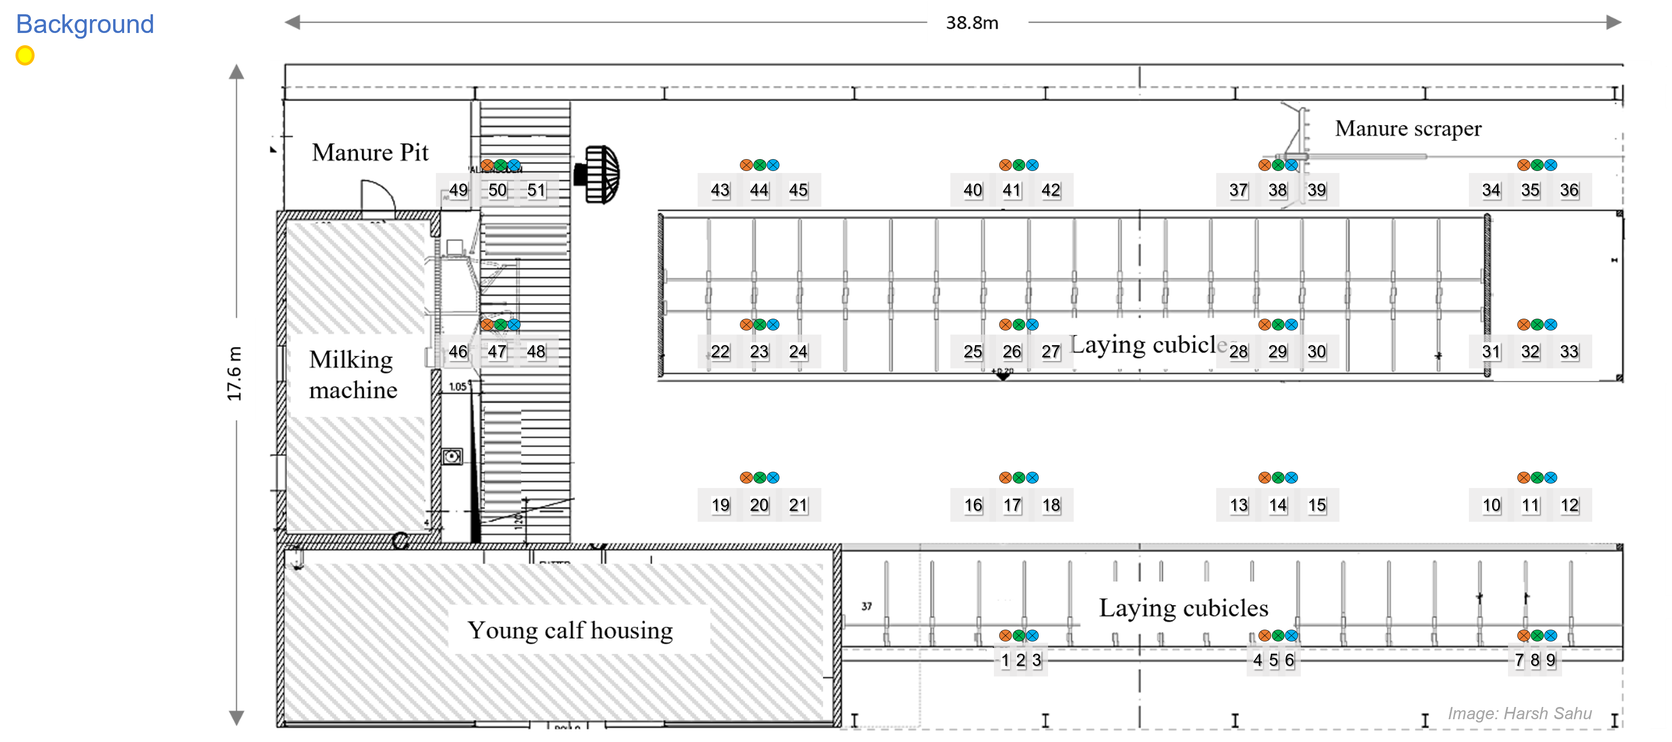
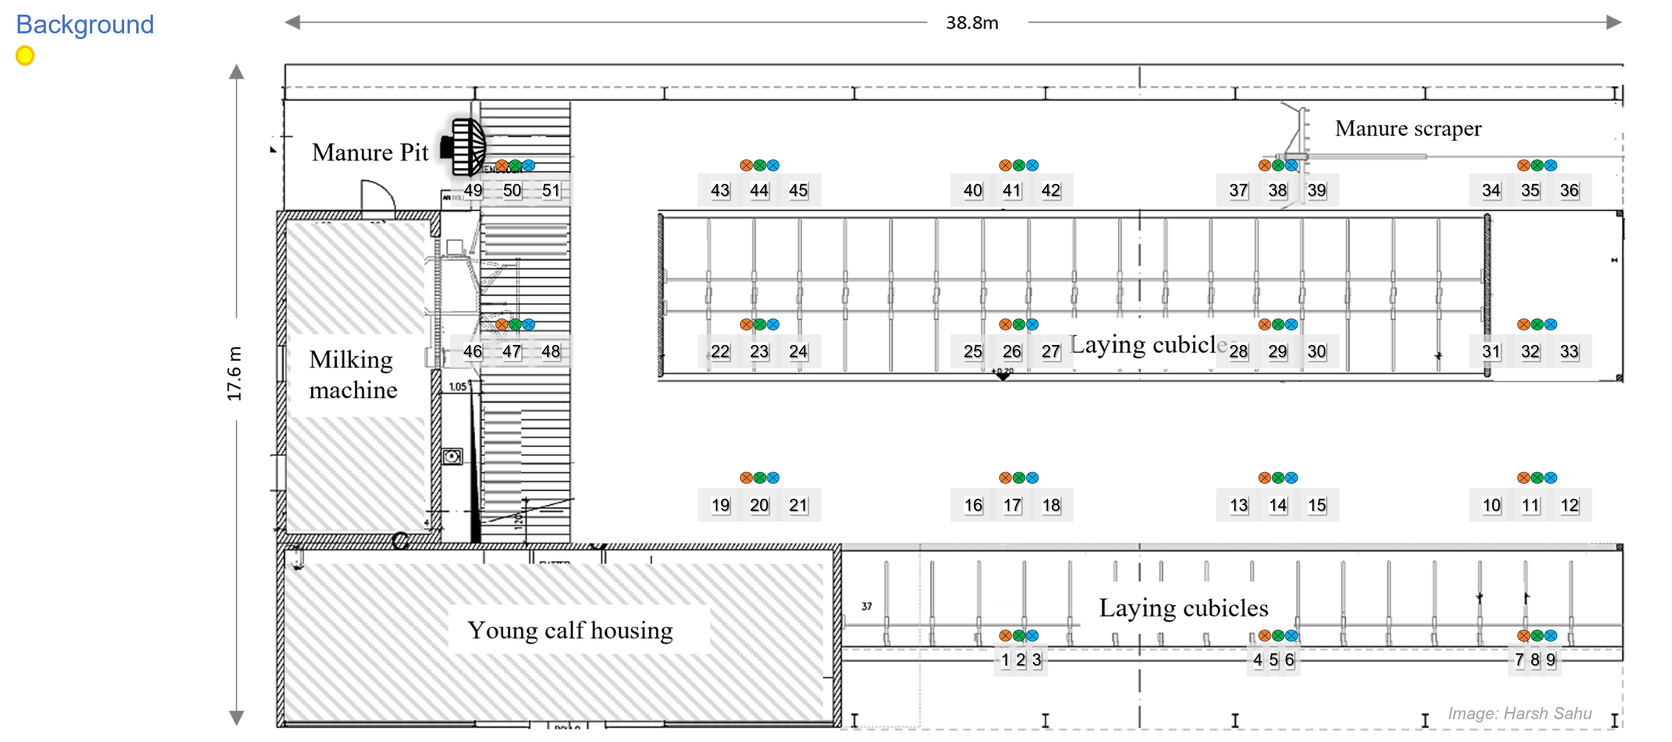
intro20260819

diff --git a/workflows/mapping_high_resolution/Manuscript_3_Mapping_high_resolution_concentration_Latex_draft/LaTex_drafts/20260813_Manuscript3_draft.tex b/workflows/mapping_high_resolution/Manuscript_3_Mapping_high_resolution_concentration_Latex_draft/LaTex_drafts/20260813_Manuscript3_draft.tex
@@ -53,39 +53,27 @@ SP & sampling point\\
 
 \section{Introduction}
 
-Reliable barn-scale measurements of methane (\(\mathrm{CH_4}\)) and ammonia (\(\mathrm{NH_3}\)) require representative concentrations and ventilation rates. This remains difficult in naturally ventilated dairy barns because wind, buoyancy, building geometry, animals and manure surfaces create airflow and concentration fields without permanently defined inlets and outlets. Foundational evaluations of available measurement methods identified spatial sampling as a major source of uncertainty \citep{Calvet2013,Ogink2013,Saha2013}. A recent systematic review confirmed that horizontal position, sampling height, point density and measurement duration remain unresolved and that no internationally accepted reference method is available for these buildings \citep{Apostolico2026}.
+Reliable field-scale quantification of methane (\(\mathrm{CH_4}\)) and ammonia (\(\mathrm{NH_3}\)) emissions from livestock buildings requires representative gas concentrations and ventilation rates. Direct emission measurements are most readily applied in mechanically ventilated buildings (MVBs), including pig and beef-cattle housing, where fan-assisted exhausts provide defined outlets. Under suitable conditions, uncertainties of approximately 6--7\% have been reported because outlet concentrations and ventilation rates can be measured at controlled exhaust sections \citep{Calvet2013}. This approach is more difficult and costly in large, open-sided naturally ventilated dairy barns (NVDBs), where wind, buoyancy, building geometry, animals and manure surfaces produce heterogeneous airflow and concentration fields without permanently defined inlets and outlets \citep{Ogink2013,Saha2013}. Consequently, spatio-temporal sampling resolution, particularly its vertical component, can introduce systematic error. For direct methods, representative vertical sampling is required for both gas concentrations, as demonstrated by \citet{Sahu2023}, and airflow velocity, as addressed by \citet{Coorevits2025Direct}. Indirect \(\mathrm{CO_2}\)-balance methods instead infer the ventilation rate from animal \(\mathrm{CO_2}\) production and the indoor--background concentration difference. Representative internal and background sampling is therefore essential for both the tracer and target gases.
 
-The VERA protocol addresses this uncertainty by recommending internal sampling at least \SI{3}{m} above the floor, at least \SI{2}{m} from openings and at approximately one sampling point per \SI{10}{m} of barn length. For dairy cattle, at least six independent \SI{24}{h} measurement periods should be distributed across one year. These provisions standardise measurement practice but do not quantify the precision of a particular configuration, and the protocol acknowledges that the required number of sampling points has not been established experimentally \citep{VERA2018}. Empirical comparisons show why that limitation matters. Alternative inside--outside sampling strategies produced differences of 63--94\% in calculated ventilation and 11--26\% in \(\mathrm{NH_3}\) emission during long-term monitoring \citep{JankeSampling2020}. Verification against opening-based airflow measurements subsequently showed that the performance of two \(\mathrm{CO_2}\)-balance strategies depended on wind direction and on whether the selected internal lines represented the prevailing exhaust pathway \citep{Janke2022}. In a recent one-year study at each of four dairy barns, daily ventilation calculated using a VERA-type method differed from a direct opening-flow method by an average of \(-9\%\), with differences from \(-33\) to \(34\%\) \citep{Declerck2025}. The relationship was barn- and flow-dependent, demonstrating that sampling configuration is embedded within a broader method-specific uncertainty.
+The 2018 VERA test protocol provides recommendations for quantifying livestock emissions by direct and indirect methods and aims to standardise the derivation of annual emission factors and the evaluation of mitigation measures \citep{VERA2018}. However, it does not quantify the uncertainty attributable to a particular spatial sampling configuration and acknowledges that the required number of sampling points has not been established experimentally. Several studies in European livestock buildings have addressed this evidence gap. In a German NVDB, alternative inside--outside sampling strategies produced differences of 63--94\% in indirectly calculated ventilation rates and 11--26\% in \(\mathrm{NH_3}\) emissions during long-term monitoring \citep{JankeSampling2020}. Subsequent verification against opening-based airflow measurements showed that the performance of two \(\mathrm{CO_2}\)-balance strategies depended on wind direction and on whether the selected internal sampling lines represented the prevailing exhaust pathway \citep{Janke2022}. In a recent study that monitored four Belgian NVDBs for one year each, ventilation rates calculated using a VERA-type method differed from those obtained using a direct opening-flow method by an average of \(-9\%\), with individual differences ranging from \(-33\) to \(34\%\) \citep{Declerck2025}. This barn- and flow-dependent relationship demonstrates that sampling configuration forms part of a broader method-specific uncertainty.
 
-Field measurements have nevertheless established that the underlying concentrations are spatially structured. Non-uniform distributions of \(\mathrm{NH_3}\), \(\mathrm{CO_2}\) and tracer-gas mixing ratios were reported by \citet{Mendes2015}. Substantial temporal and spatial variability of \(\mathrm{CH_4}\) occurred around lying cubicles \citep{Wu2016}. Horizontal and vertical concentration differences were also observed in open dairy barns and at barn openings \citep{Durso2022,Durso2024,Sahu2023}. These studies resolved selected transects, profiles or source zones. They did not establish whether the same spatial contrasts persist when normal barn operation and changing meteorological conditions are observed over longer periods.
+Over the past two decades, full-scale field measurements, computational fluid dynamics (CFD) and atmospheric-boundary-layer wind-tunnel experiments have identified factors governing spatial variability in NVDBs. Field studies have linked non-uniform airflow and concentration fields to external wind conditions and to disturbances in the approaching flow caused by nearby buildings and other obstacles \citep{Fiedler2014,Schmithausen2018,Koenig2018}. Non-uniform distributions of \(\mathrm{NH_3}\), \(\mathrm{CO_2}\) and tracer-gas mixing ratios were reported by \citet{Mendes2015}. Substantial temporal and spatial variability in \(\mathrm{CH_4}\) concentrations was observed around lying cubicles \citep{Wu2016}. Horizontal and vertical concentration differences were also found within open dairy barns and at barn openings \citep{Durso2022,Durso2024,Sahu2023}. Although these studies established the presence of local heterogeneity, they did not determine whether the same spatial contrasts persist under regular day-to-day barn operations and changing meteorological conditions over extended periods.
 
-Controlled studies provide a mechanistic basis for interpreting these field patterns. Wind-tunnel experiments show that pollutant dispersion depends on the atmospheric boundary layer, opening configuration and barn geometry, and that complete internal mixing cannot generally be assumed \citep{Nosek2021}. Vertically distributed sampling reduced errors in directly calculated emissions in a scaled barn \citep{Janke2020}. CFD simulations further showed that the height providing the most representative \(\mathrm{NH_3}/\mathrm{CO_2}\) ratio varied among convection regimes and that informative airflow locations depended on wind direction and spatial correlation structure \citep{Doumbia2021,Chen2026}. These controlled approaches resolve spatial mechanisms efficiently but represent a finite set of prescribed boundary conditions.
+Controlled studies provide a mechanistic basis for interpreting these field observations. Wind-tunnel experiments have shown that pollutant dispersion depends on the atmospheric boundary layer, opening configuration and barn geometry, and that complete internal mixing cannot generally be assumed \citep{Nosek2021}. Vertically distributed sampling reduced errors in directly calculated emissions from a scaled barn \citep{Janke2020}. CFD simulations further showed that the height providing the most representative \(\mathrm{NH_3}/\mathrm{CO_2}\) ratio varied among convection regimes and that informative airflow locations depended on wind direction and spatial correlation structure \citep{Doumbia2021,Chen2026}. These controlled approaches efficiently resolve spatial mechanisms but necessarily represent a finite set of prescribed boundary conditions.
 
-Recent evidence therefore leaves a two-sided gap. Long-term field studies provide temporal realism but commonly obtain spatially integrated concentrations from composite lines \citep{JankeSampling2020,Janke2022,Declerck2025}. Dense spatial studies and controlled simulations resolve local gradients but cover shorter periods, selected regions or prescribed flow conditions. To the authors' knowledge, no full-scale study has combined individual-point, barn-wide three-dimensional concentration mapping with extended observations across contrasting seasons. Such data are required to test whether spatial patterns persist, reverse or attenuate over time and to provide a full-scale field benchmark for practical and model-derived sampling recommendations.
+The review by \citet{Apostolico2026} confirmed that horizontal position, sampling height, point density and measurement duration remain unresolved and that no internationally accepted reference method is available for NVDBs. Recent evidence therefore reveals a two-sided gap. Long-term field studies provide temporal realism but commonly derive spatially integrated concentrations from composite sampling lines \citep{JankeSampling2020,Janke2022,Declerck2025}. Dense spatial studies and controlled simulations resolve local gradients but generally cover shorter periods, selected barn regions or prescribed flow conditions. To the authors' knowledge, no full-scale study has combined high-resolution individual-point, barn-wide three-dimensional concentration mapping with extended observations across contrasting seasons. Such data are required to determine whether spatial patterns persist, reverse or attenuate over time and to provide a full-scale field benchmark for practical and model-derived sampling recommendations.
 
-The present study therefore measured \(\mathrm{CO_2}\), \(\mathrm{CH_4}\) and \(\mathrm{NH_3}\), together with their pairwise concentration ratios, at 51 internal sampling points arranged across 17 horizontal positions and three vertical levels. Measurements covered contrasting meteorological periods and functional areas of an operational dairy barn. The objective was to quantify how horizontal position, vertical level and temporal aggregation affected gas concentrations and their propagation into \(\mathrm{CO_2}\)-balance ventilation and emission estimates. The null hypothesis was that the long-term distributions of the measured gases did not differ among horizontal sampling positions or vertical levels. Statistical evidence was interpreted together with effect magnitude and spatial-versus-temporal variability so that detectable differences were not automatically regarded as operationally important.
+The present study therefore measured \(\mathrm{CO_2}\), \(\mathrm{CH_4}\) and \(\mathrm{NH_3}\), together with their pairwise concentration ratios, at 51 internal sampling points arranged across 17 horizontal positions and three vertical levels. Measurements covered contrasting meteorological periods and functional areas of an operational dairy barn. The objective was to quantify how horizontal position, vertical level and temporal aggregation affected gas concentrations and their propagation into \(\mathrm{CO_2}\)-balance ventilation and emission estimates. The null hypothesis was that the long-term distributions of the measured gases did not differ among horizontal sampling positions or vertical levels. Statistical evidence was interpreted together with effect magnitude and spatial-versus-temporal variability so that statistically detectable differences were not automatically regarded as operationally important.
 
 \section{Materials and methods}
 
 \subsection{Experimental barn and surroundings}
 
-Measurements were conducted at the experimental naturally ventilated dairy barn of the Lehr- und Versuchsanstalt f\"ur Tierzucht und Tierhaltung in Gro{\ss} Kreutz, Brandenburg, Germany. The facility forms part of the Leibniz Innovation Centre for Sustainable Bioeconomy and is coordinated by the Leibniz Institute for Agricultural Engineering and Bioeconomy. The investigated loose-housing barn was designed for 58 dairy cows and measured \SI{38.88}{m} by \SI{17.65}{m}. Its asymmetrical fibre-cement roof reached \SI{6.20}{m} at the ridge and approximately \SI{3.60}{m} at the sidewalls. The internal air volume was approximately \SI{4529}{m^3}. Previous studies at the same research site provide complementary details of the barn and its measurement infrastructure \citep{Hempel2020Methane,Chen2026}.
+Measurements were conducted at the experimental naturally ventilated dairy barn of the Lehr- und Versuchsanstalt f\"ur Tierzucht und Tierhaltung in Gro{\ss} Kreutz, Brandenburg, Germany. The facility forms part of the Leibniz Innovation Centre for Sustainable Bioeconomy and is coordinated by the Leibniz Institute for Agricultural Engineering and Bioeconomy. The investigated loose-housing barn was designed for 58 dairy cows and measured \SI{38.88}{m} by \SI{17.65}{m}, yielding an internal air volume of approximately \SI{4529}{m^3}. Its asymmetrical fibre-cement roof reached a height of \SI{6.20}{m} at the ridge and approximately \SI{3.60}{m} at the sidewalls. The adjacent surroundings included open land, manure storage, feed storage, and other livestock buildings. These structures were relevant to the study, as their intermittent plumes could modify the approach flow and background gas concentrations. Furthermore, an external area adjacent to the northern side of the barn (\SI{12.5}{m} $\times$ \SI{6.0}{m} = \SI{75}{m^2}) contained additional lying cubicles. Previous studies at this research site provide complementary details of the barn and its foundational measurement infrastructure \citep{Hempel2020Methane,Chen2026}.
 
-The barn contained littered lying cubicles, solid concrete walking and feeding alleys, an automated milking area and a small slatted-floor section. The western alley was cleaned by an automatic manure scraper and the eastern alley by a cleaning robot. The southern gable incorporated the milking-robot room and adjoining structures. Gates in the northern gable connected the barn with an exercise yard, which remained closed throughout the investigated periods because of construction work. The surroundings included open land, manure storage, feed storage and other livestock buildings. These structures were relevant because their wakes and intermittent plumes could modify the approach flow and background concentrations.
+The barn interior depicted in Fig~\ref{fig:layout} comprised littered lying cubicles, solid concrete walking and feeding alleys, an automated milking robot (Lely Astronaut A4, Maassluis, The Netherlands) in the southern gable, and a small slatted-floor section situated over a manure pit. Natural ventilation through the sidewalls was the principal air exchange mechanism, as the barn featured no ridge openings. Routine barn management included the daily provisioning of fresh totally mixed ration (TMR) at approximately 05:30 and 10:30, with the feed pushed up three times daily at 10:30, 12:00, and 19:00. The lying cubicles were freshly bedded every two weeks (every second Wednesday) using a tractor to distribute a lime–straw–water mixture. Manure removal was automated at every 90 minutes interval. The western walking alley was cleaned by a manure scraper, while the eastern alley was maintained by a cleaning robot (Lely Manure robot Discovery Collector, Maassluis, The Netherlands).
 
-Natural ventilation through the wall was the principal ventilation mechanism. There were no ridge openings in the barn. Internal circulation fans and an experimental cooling and air-distribution system were present during parts of Campaign~1, but their complete operating history was unavailable. They were therefore treated as contextual features rather than controlled experimental factors. Manure removal, bedding, feeding, cow movement, fan operation and water spraying could generate short-term changes in sources or transport. The sampling network consequently covered the principal functional zones rather than being restricted to a geometrically uniform grid.
-
-\subsection{Spatial sampling design}
-
-Fifty-one individual polytetrafluoroethylene (PTFE) sampling lines were installed inside the barn. Each line endpoint is termed a sampling point (SP). Seventeen horizontal positions covered lying-cubicle rows, feeding and walking areas, manure-handling zones, the vicinity of the milking installation and the open central barn airspace (Fig.~\ref{fig:layout}). Three vertically aligned SPs were installed at each horizontal position. The top SP was located \SI{0.60}{m} below the local sloping roof, the middle SP was \SI{3.60}{m} above the floor and the bottom SP was \SI{2.60}{m} above the floor. The top layer therefore followed roof elevation rather than representing one absolute height. The bottom height was the lowest practicable installation that protected tubes from cattle and retained clearance for tractors and routine barn operations. The middle layer represented the commonly accessible upper barn airspace. The near-roof layer deliberately examined a region rarely resolved in occupied-barn field measurements.
-
-Previous barn-scale networks followed two distinct sampling principles. Composite sampling lines physically averaged air drawn through multiple openings. In a northern German dairy barn, \citet{JankeSampling2020} installed more than \SI{900}{m} of \SI{6}{mm} internal-diameter PTFE line with critical orifices every \SIrange{8}{10}{m}. Ten indoor and outdoor lines were sampled hourly with two FTIR analysers, principally at \SI{3.2}{m}, with one upper internal line at \SI{6.8}{m}. A subsequent verification used six of these composite lines and compared two \(\mathrm{CO_2}\)-balance configurations with airflow measured by nine ultrasonic anemometers across the windward opening during selected stable cross-flow conditions \citep{Janke2022}. In a Danish dairy barn, \citet{Kamp2019} coupled CRDS to three \SI{20}{m} internal lines containing 20 uniformly distributed openings and to two discrete outside points.
-
-The recent ILVO study extended the composite-line principle to four naturally ventilated dairy barns monitored continuously for one year each \citep{Declerck2025}. Gas was sampled at both side openings, below the ridge and from a VERA-type internal line positioned \SI{3}{m} below the ridge. The composite lines contained filtered critical capillaries at \SI{10}{m} intervals, each operated at \SI{1.2}{L\,min^{-1}}. Direct opening-flow measurements and the indirect VERA-type \(\mathrm{CO_2}\) balance were evaluated in parallel. These composite designs were suited to spatially integrated concentrations but did not retain the identity of every contributing inlet. The present design instead assigned a dedicated tube to every SP so that local spatial information was preserved before aggregation.
-
-Discrete-point studies retained local spatial information but generally resolved fewer positions, fewer dimensions or shorter periods. In the Netherlands, \citet{Mendes2015} sampled two vertical poles at four heights from \SIrange{1}{4}{m} during seven \SI{120}{min} tests. In a northern German barn, \citet{Fiedler2014} monitored eight internal points at six positions, including paired heights of \SI{0.2}{m} and \SI{2.6}{m}. At Wageningen University, \citet{Wu2016} concentrated nine points around lying cubicles at \SI{0.3}{m} with an additional barn point at \SI{3.5}{m}. Horizontal and vertical campaigns in an open-sided Sicilian barn respectively used 11 points at \SI{0.2}{m} and three central points at \SI{0.4}{m}, \SI{1.55}{m} and \SI{2.70}{m} \citep{Durso2022,Durso2024}. The present design combined these dimensions by assigning one dedicated line to every SP. No physical averaging among SPs occurred before analysis.
-
-SPs were numbered as vertical triplets. At each horizontal position, the first number denoted the top, the second the middle and the third the bottom SP. Top SPs were therefore 1, 4, 7, \ldots, 49. Middle SPs were 2, 5, 8, \ldots, 50. Bottom SPs were 3, 6, 9, \ldots, 51.
+Barn management activities generate short-term spatial variations in emission sources and transport. Thus, the sampling network was strategically designed to cover principal functional zones such as feeding, bedding, manure removal, cow movement, and localized fan operation.
 
 \begin{figure}[htbp]
 \centering
@@ -100,6 +88,20 @@ SPs were numbered as vertical triplets. At each horizontal position, the first n
 \caption{Experimental barn and dense Campaign~1 sampling design. Numbers are arranged in vertical triplets (top, middle and bottom). Functional zones and internal circulation fans are shown to support physical interpretation of the concentration field.}
 \label{fig:layout}
 \end{figure}
+
+\subsection{Spatial sampling design}
+The VERA protocol addresses this uncertainty by recommending internal sampling at least \SI{3}{m} above the floor, at least \SI{2}{m} from openings and at approximately one sampling point per \SI{10}{m} of barn length. For dairy cattle, at least six independent \SI{24}{h} measurement periods should be distributed across one year. 
+
+Fifty-one individual polytetrafluoroethylene (PTFE) sampling lines were installed inside the barn, with each line endpoint termed a sampling point (SP). To capture short-term spatial variations in emission sources, the network was deployed across 17 horizontal positions that strategically targeted principal functional zones rather than a uniform grid (Fig.~\ref{fig:layout}). Horizontal coverage included the eastern (SP1 to SP9) and central (SP22 to SP30) lying cubicles, eastern (SP10 to SP21) and western (SP34 to SP45) walkways, and the drinking area (SP31 to SP33). Specific micro-environments were also targeted, such as the northern open gates (SP10 to SP12; SP34 to SP36), an internal circulation fan (SP49 to SP51), and the southern manure pit and automated milking robot area (SP46 to SP51). 
+
+At each of the 17 horizontal positions, three SPs were configured as a vertical triplet. The first number denoted the top SP (e.g., 1, 4, 7), located \SI{0.60}{m} below the local sloping roof to deliberately examine a near-roof region rarely resolved in occupied-barn field measurements. The second number denoted the middle SP (e.g., 2, 5, 8), set \SI{3.60}{m} above the floor to represent the commonly accessible upper airspace. The third number denoted the bottom SP (e.g., 3, 6, 9) at \SI{2.60}{m} above the floor, representing the lowest practicable height that maintained operational clearance for cattle and tractors. To capture background atmospheric conditions, a dedicated external line (SP\_out) was positioned \SI{11.0}{m} southwest of the barn at a height of \SI{6.0}{m}.
+
+Previous barn-scale networks followed two distinct sampling principles. Composite sampling lines physically averaged air drawn through multiple openings. In a northern German dairy barn, \citet{JankeSampling2020} installed more than \SI{900}{m} of \SI{6}{mm} internal-diameter PTFE line with critical orifices every \SIrange{8}{10}{m}. Ten indoor and outdoor lines were sampled hourly with two FTIR analysers, principally at \SI{3.2}{m}, with one upper internal line at \SI{6.8}{m}. A subsequent verification used six of these composite lines and compared two \(\mathrm{CO_2}\)-balance configurations with airflow measured by nine ultrasonic anemometers across the windward opening during selected stable cross-flow conditions \citep{Janke2022}. In a Danish dairy barn, \citet{Kamp2019} coupled CRDS to three \SI{20}{m} internal lines containing 20 uniformly distributed openings and to two discrete outside points.
+
+The recent ILVO study extended the composite-line principle to four naturally ventilated dairy barns monitored continuously for one year each \citep{Declerck2025}. Gas was sampled at both side openings, below the ridge and from a VERA-type internal line positioned \SI{3}{m} below the ridge. The composite lines contained filtered critical capillaries at \SI{10}{m} intervals, each operated at \SI{1.2}{L\,min^{-1}}. Direct opening-flow measurements and the indirect VERA-type \(\mathrm{CO_2}\) balance were evaluated in parallel. These composite designs were suited to spatially integrated concentrations but did not retain the identity of every contributing inlet. The present design instead assigned a dedicated tube to every SP so that local spatial information was preserved before aggregation.
+
+Discrete-point studies retained local spatial information but generally resolved fewer positions, fewer dimensions or shorter periods. In the Netherlands, \citet{Mendes2015} sampled two vertical poles at four heights from \SIrange{1}{4}{m} during seven \SI{120}{min} tests. In a northern German barn, \citet{Fiedler2014} monitored eight internal points at six positions, including paired heights of \SI{0.2}{m} and \SI{2.6}{m}. \citet{Wu2016} concentrated nine points around lying cubicles at \SI{0.3}{m} with an additional barn point at \SI{3.5}{m}. Horizontal and vertical campaigns in an open-sided Sicilian barn respectively used 11 points at \SI{0.2}{m} and three central points at \SI{0.4}{m}, \SI{1.55}{m} and \SI{2.70}{m} \citep{Durso2022,Durso2024}. The present design combined these dimensions by assigning one dedicated line to every SP. No physical averaging among SPs occurred before analysis.
+
 
 \subsection{Gas analysers and multiplexer allocation}
 
